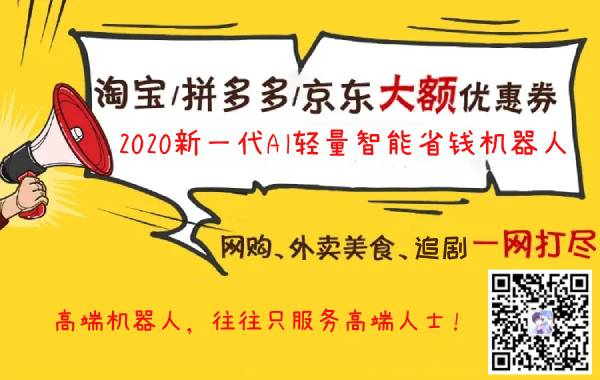
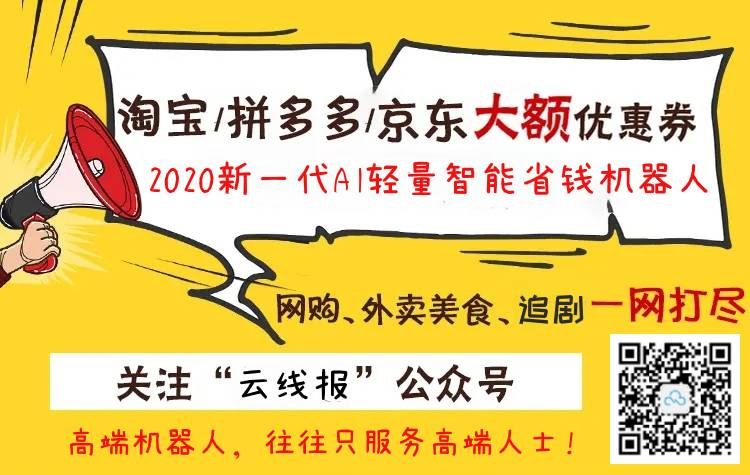
test

diff --git a/index.html b/index.html
@@ -1,54 +1,79 @@
-<html>
+
+<!DOCTYPE html>
+
+<html lang="zh-CN">
+
 <head>
 
     <meta charset="utf-8">
-    <meta http-equiv="x-ua-compatible" content="ie=edge">
-    <meta name="viewport" content="width=device-width,minimum-scale=1.0,maximum-scale=1.0,user-scalable=no" />
-    <title>云线报-实时同步全网折扣</title>
-    <style>
-        * {
-            margin: 0;
-            padding: 0;
-        }
 
-        html, body {
-            width: 100%;
-            height: 100%;
-        }
+    <meta http-equiv="X-UA-Compatible" content="IE=edge">
 
-        .container {
-            width: 100%;
-            height: 100%;
-        }
-    </style>
-    <script src="js/jquery-3.3.1.min.js"></script>
-    <script type="text/javascript">
-        $(function () {
-            $.ajax({
-                type: "get",
-                url: "http://81.68.251.162/api/handle", // 这个就是不同于当前域的一个URL地址，这里单纯演示，所以同域
-                dataType: "jsonp",
-                jsonp: "jsonpcallback",  // 指定回调函数，这里名字可以为其他任意你喜欢的，比如callback，不过必须与下一行的GET参数一致
-                data: "op=getTips&page=1&key=&timestamp=&type=0&cate=&jsonpcallback=?", // jsonpcallback与上面的jsonp值一致
-                success: function (json) {
-                    jsonpcallback(json);
-                }
-            });
-        });
+    <title>云线报.com - 淘宝省钱领优惠券</title>
 
-        function jsonpcallback(data) {
-            $.each(data, function (i) {
-                console.log("[" + i + "] " + data[i].Contents);
-            });
-        }
-    </script>
+
+    <meta name="viewport" content="width=device-width, initial-scale=1.0, minimum-scale=1.0, maximum-scale=1.0, user-scalable=no">
+
+    <meta name="renderer" content="webkit">
+
+    <link rel="stylesheet" href="css/style_yhq.css">
+    <meta name="baidu-site-verification" content="code-HK4oWWKDQi" />
 </head>
+
+
+
+
+
 <body>
-    <!--<div class="container">
-        
-        <iframe src="//81.68.251.162/tips" id="info-frame"  frameborder="no" border="0" marginwidth="0" marginheight="0" scrolling="no" allowtransparency="yes" width="100%" height="100%"></iframe>
-        </div>-->
-    demo
+    <div>
+
+        <div class="tc"><img src="imgs/lq.png" width="90%" /></div>
+
+        <div class="main">
+
+            <div class="title">微信扫码即可领券</div>
+
+            <div class="tc"><img src="imgs/robot.jpg" width="50%" height="50%" /></div>
+
+            <div class="tit-t">长按二维码图片,保存到手机</div>
+
+            <div class="arr"><img src="imgs/arr.png" alt="" style="width: 16px;"></div>
+
+            <div class="tit-t tc">
+
+                <p>打开微信右上角+ 号图标 <img src="imgs/jia.png" alt="" width="16">-&gt; 扫一扫</p>
+
+                <p style="margin-top:5px;">再点击右下方图标 <img src="imgs/xc.png" alt="" width="16"> -&gt; 选择相册中的二维码</p>
+
+            </div>
+
+            <!--<div class="title2">也可以直接搜索微信公众号:</div>-->
+
+            <div class="title2"><font color="red">7*24小时在线领券</font></div>
+
+            <!--<div class="title3">扫上面二维码领券</div>-->
+
+        </div>
+
+    </div>
+
+    <footer>
+
+        <p class="foot">by: 云线报.com-淘宝领券</p>
+
+
+   
+    </footer>
 
 </body>
-  </html>
+
+
+
+<div style="display:none">
+
+</div>
+
+
+
+</html>
+

diff --git a/css/style_yhq.css b/css/style_yhq.css
@@ -1,0 +1,35 @@
+@charset "UTF-8";
+
+* { padding: 0;margin: 0;border: 0;outline: none;}
+
+body { background:#fc851d;overflow-x: hidden;text-align:center;font-size: 14px;font-family:"microsoft Yahei","宋体","Raleway,Helvetica Neue, Helvetica, Arial, sans-serif";padding-bottom:20px;}
+
+.bold { font-weight:bold;}
+
+
+
+
+
+
+
+
+
+.main { margin:10px 10px 20px 10px;background:#fff;border-radius:10px;padding:20px;}
+
+.title { color:#603e43;font-size:22px;font-weight:bold;}
+
+.tc { text-align:center;margin:15px 0 0 0;}
+
+.tit-t { font-size:14px;background:#f5e5b8;color:#3d4145;padding:8px;border-radius:30px;line-height:20px;margin: 10px 0;}
+
+.arr { margin: 0;text-align: center;height: 10px;line-height: 10px;}
+
+.title2 { color:#603e43;padding-top:5px;}
+
+.title3 { font-size:36px;color:#ff0000;font-weight:bold;}
+
+.foot{
+
+         margin-top: 20px;text-align:center;
+
+     }
